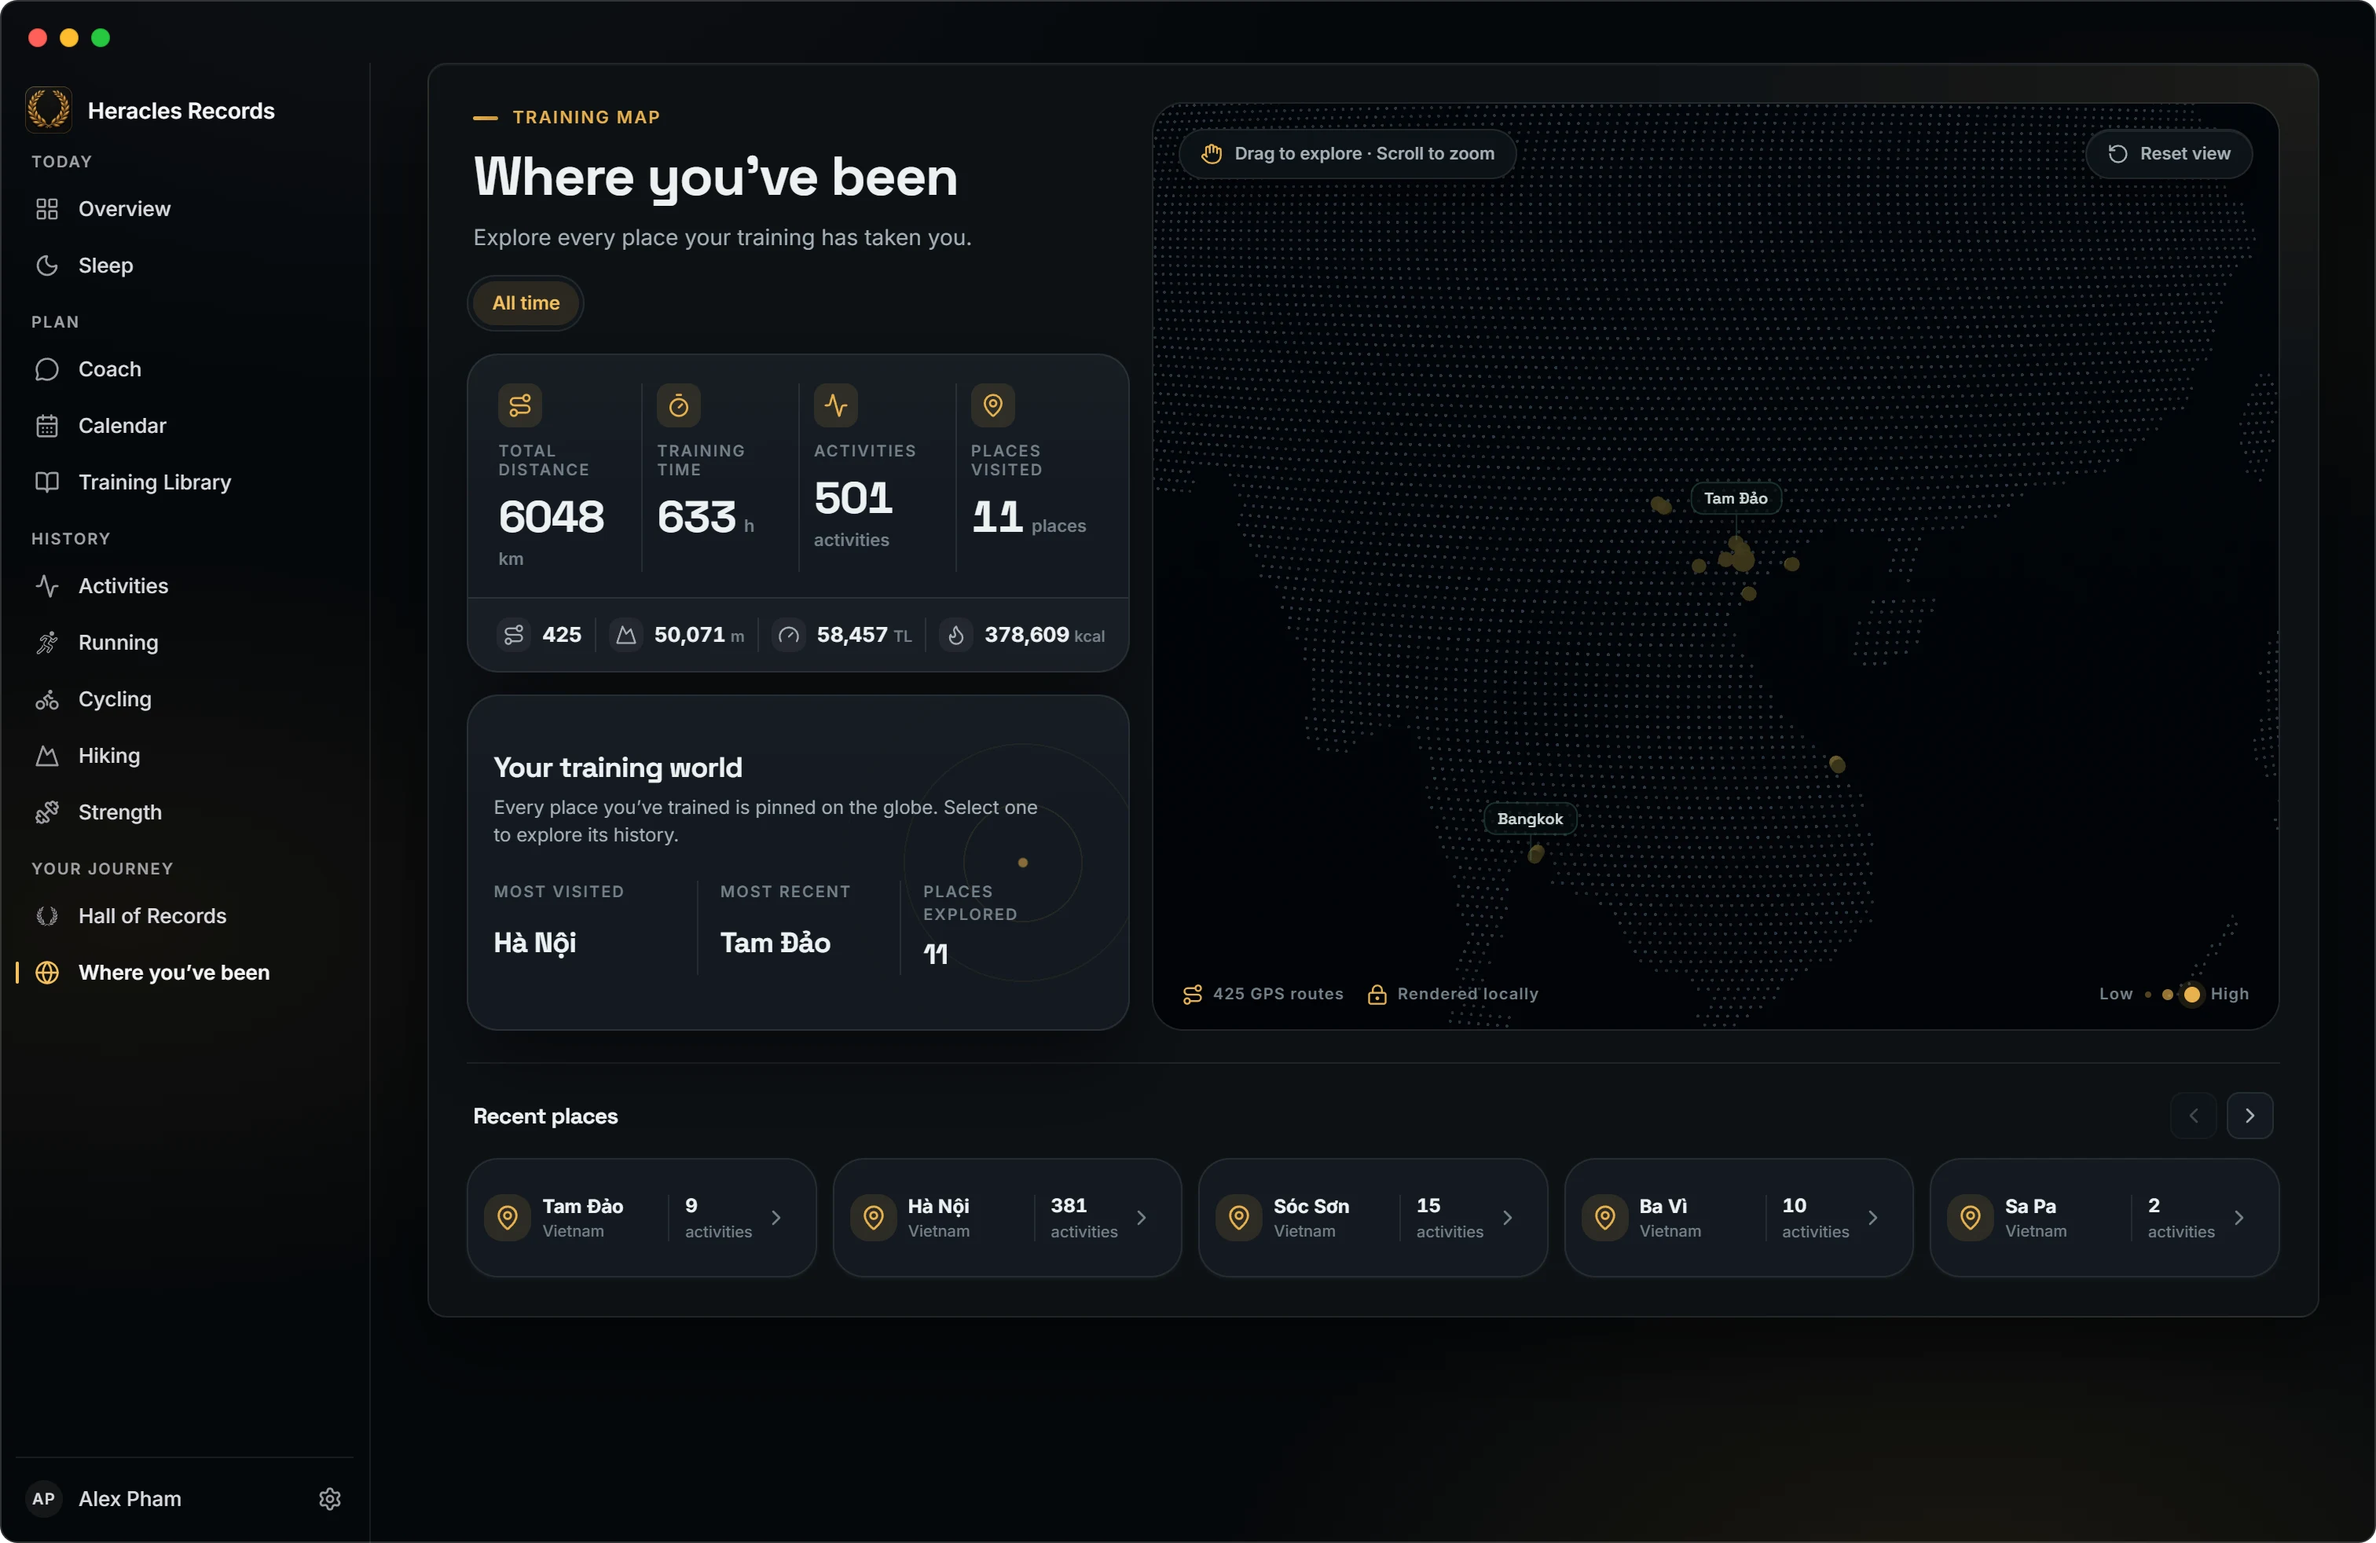
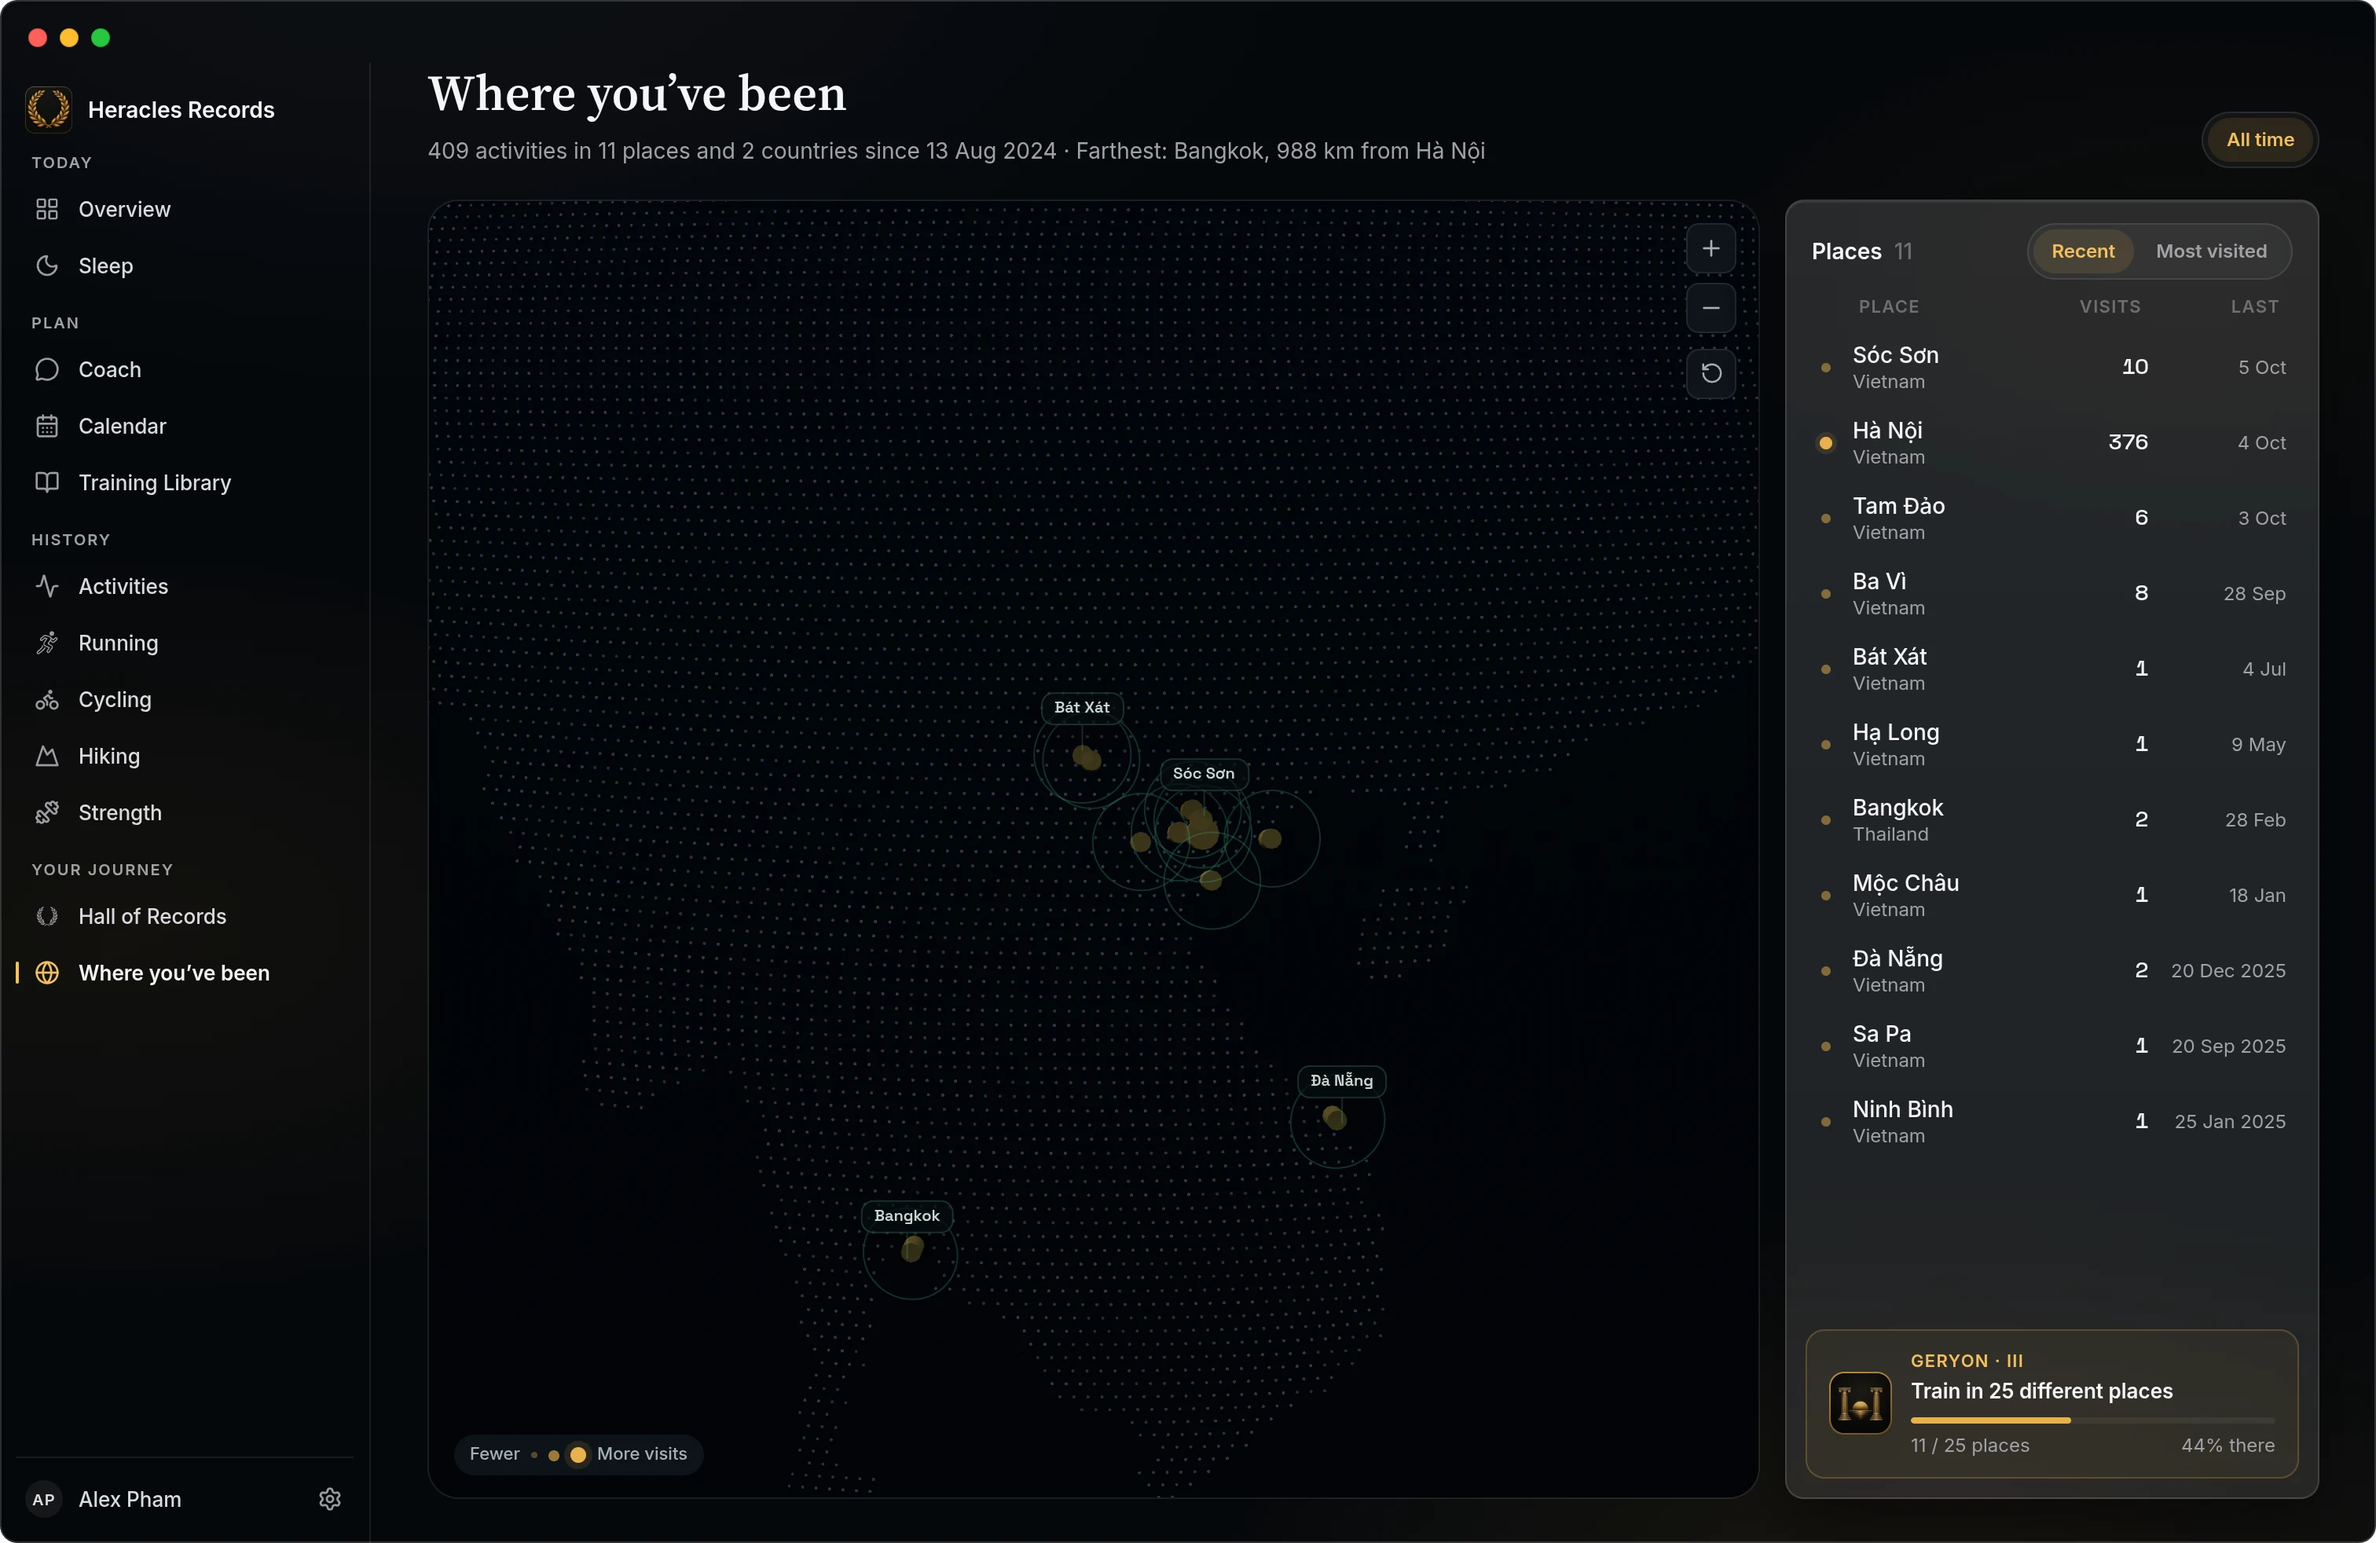
Where you've been: describe the new layout, and reshoot it
CLAUDE.md's section on the screen still spoke of Recent places paged five at
a time. It now says how the screen is laid out and the rules the redesign
rests on: the place arithmetic and its suite, the hovered key both sides
share, Street view as its own step, Reset only after the athlete moves the
camera, the open place kept for Back, and the Geryon card reading the Hall's
own labour once it has settled.

docs/readme/15-places.webp is shot again from shots.json; the website's home
page reads it.

diff --git a/CLAUDE.md b/CLAUDE.md
@@ -1980,6 +1980,27 @@ lives at module level for the same visit-to-visit reason — see `useCalendarDat
   untouched `points`.
 - **Where you've been** (`reverseGeocodeService.ts`, `src/trainingMap/`) — the globe clusters
   visit coordinates and names each cluster through `places:reverseGeocode`.
+  **Laid out like Running and the Hall** (redesigned 2026-10-06): the serif title on the page
+  and a line under it about the places (activities, places, countries, the first day for all
+  time, the farthest from home), then the globe filling the height the header leaves
+  (`.training-map` grows in `.content`'s column; the stage's `flex-basis: 0` is what makes a
+  long list scroll inside its column rather than grow the page) and a column of places beside
+  it: every place, Recent or Most visited, which opens one in its place — figures, the sports
+  as a bar, visits by month with empty months kept, Street view, and its activities, whose
+  titles open them through `openActivityFrom(…, "places")`. The open place is module state
+  (`rememberedPlaceKey`) so Back from an activity lands on it again; a new period lets it go.
+  The arithmetic is node-free `placeSummaries.ts` (`test:place-summaries`): "home" is the place
+  with most visits, "farthest" counts from 100 km — the Hall's line for its own "furthest"
+  milestones — and **no country count is given while any place is unnamed**, or the named ones
+  would read as the answer. A row and its pin share one hovered key (`hoveredKey` into the
+  renderer, `onHoverChange(key)` out). **Picking a place never opens the street map on its
+  own**; Street view and zooming past `STREET_VIEW_ALTITUDE` (wheel or the + button) do.
+  **Reset shows only once the athlete has moved the camera** (`userAdjustedRef`) — the idle
+  spin used to raise it — and returns to the picked place when there is one (`homeView`). The
+  mouse's back button steps out a layer at a time: street map, place, list. Under the list,
+  the **Cattle of Geryon** card is the Hall's own `LabourState` — a place there is an
+  activity's starting cell over all time — handed down by App only once the Hall has
+  `settled`, and it opens the Hall on The Twelve Labours.
   **It asks more than one geocoder, because one host is a single point of failure the app
   cannot route around.** A resolver that answers `*.openstreetmap.org` with loopback — which
   a number of ISPs do, and which `nslookup` against `8.8.8.8` is what proves — took Nominatim
@@ -2000,8 +2021,10 @@ lives at module level for the same visit-to-visit reason — see `useCalendarDat
   (`PLACE_LABEL_FAILURES`). Caching the fallback is what made a single blocked request
   permanent for the life of the window.
   **Names are fetched for what is on the screen, which is not the same as the first few.**
-  Recent places is paged five at a time, so a fixed head of eight left every page but the
-  first reading coordinates for good, and Most visited can sit anywhere in the list.
+  The list is named as far as it has been scrolled, 40 rows at a time in the order it is
+  sorted (`labelReach`), plus the home, the farthest and the open place; it used to be a
+  carousel paged five at a time, and a fixed head of eight left every page but the first
+  reading coordinates for good.
   `npm run test:reverse-geocode` drives the chain, both parsers against verbatim live
   payloads, and the throw-vs-return split.
   **A name is kept across launches, and only a name.** `src/trainingMap/placeLabels.ts`
